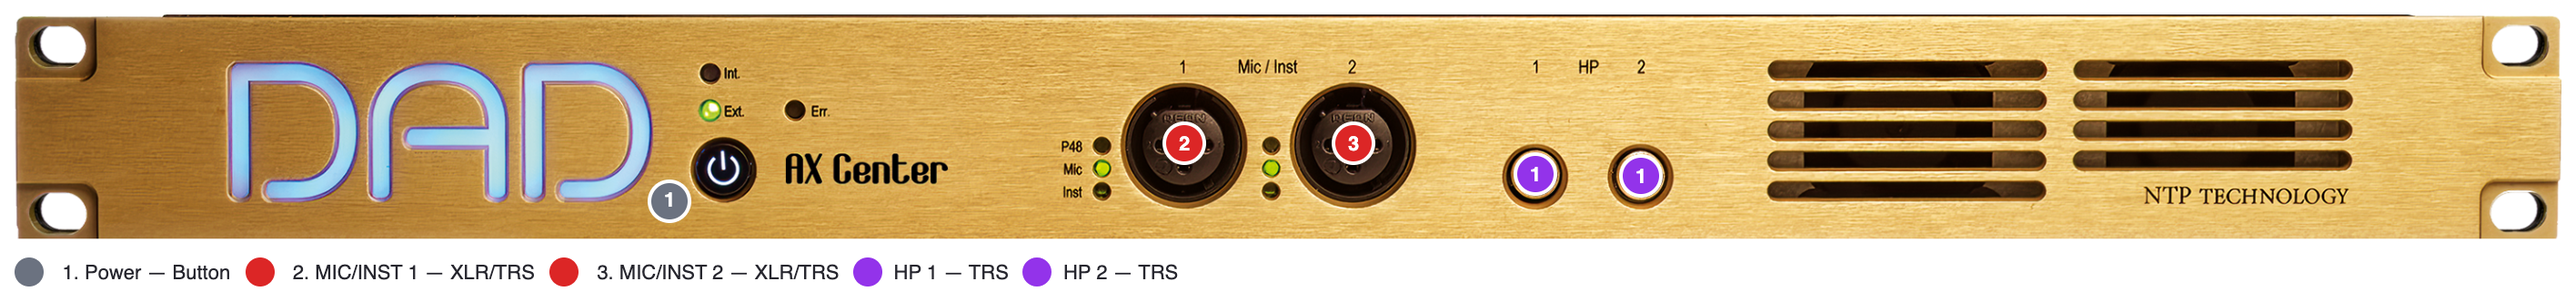
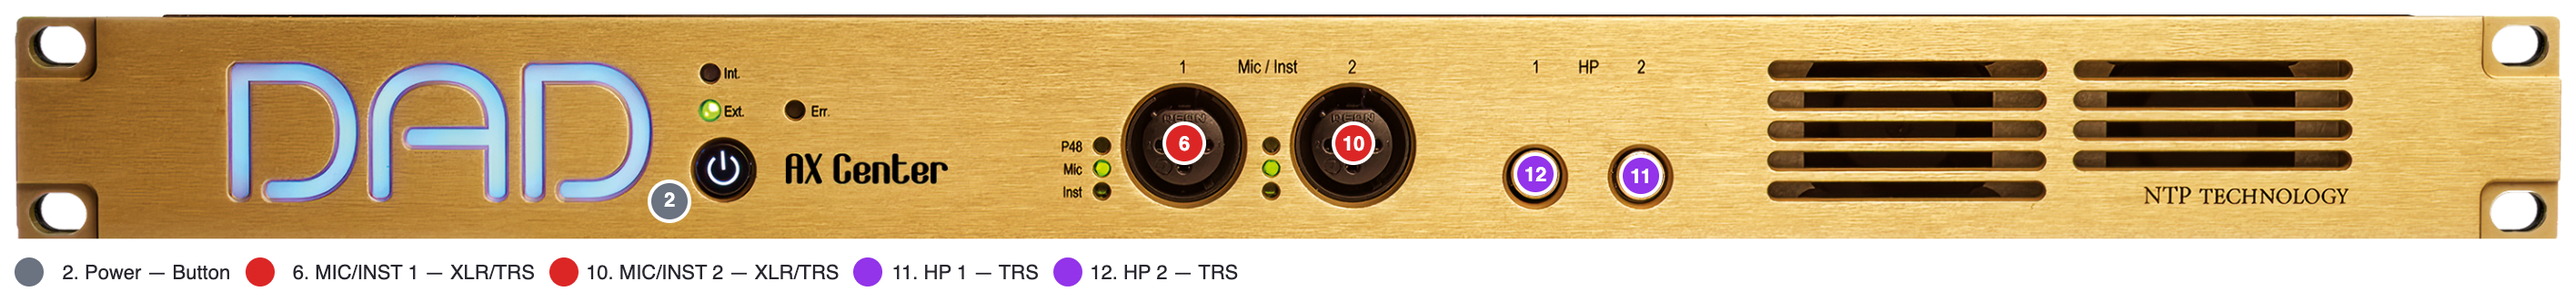
ch02: add Dot column and sequential ref numbering for all 6 devices
- All ch02 tables now include a Dot column with colour names matching
  callout dot colours in the panel images (Grey/Red/Cyan/Teal/Blue/
  Amber/Orange/Yellow/Violet/Purple/Slate/Dark/Green/—)
- All rows renumbered sequentially including previously un-numbered
  items (status LEDs, unlabelled indicators)
- AX Center front: refs 1–12 (added Int/Ext/Err/P48/Mic/Inst rows)
- AX 64 front: refs 1–5; rear: refs 1–23 with Dot column
- Core 256 front: refs 1–5 (front has no callout circles, all Dot=—)
- MOM: refs 1–14 (added Status LEDs 1–4 and Stat. rows)
- Penta 720/721s front: refs 1–3 for Ready/Error/PSU OK (Grey)
- Penta 720/721s rear: Dot column added (no ref changes needed)
- Regenerated panel-ax-center-front.png and panel-mom.png with
  updated callout numbers (11/12 for HP1/HP2 on AX Center;
  10–14 for TB/Ref/Cut/Dim/Level on MOM)

Changed region(s): [[0.3418, 0.8434, 0.4972, 0.9639], [0.5904, 0.5422, 0.6525, 0.6024], [0.4972, 0.4518, 0.5282, 0.4819]]

diff --git a/dadman-docs/docs/hardware/ax-center/ch02-panel-description.md b/dadman-docs/docs/hardware/ax-center/ch02-panel-description.md
@@ -16,20 +16,20 @@ sidebar_position: 3
 ![AX Center front panel](/img/panel-ax-center-front.png)
 *Figure 2.1 — AX Center front panel. Numbered callouts correspond to the table below.*
 
-| Ref | Label | Type | Function |
-|-----|-------|------|----------|
-| — | **DAD** | Illuminated logo | Blue illumination; indicates power-on |
-| 1 | **Power** | Illuminated push-button | Initiates controlled power-on/shutdown sequence. Hold for 5 s to force power off. |
-| — | **Int.** | LED indicator | Lit when the unit is locked to its own internal clock reference |
-| — | **Ext.** | LED indicator (green) | Lit when the unit is locked to an external clock source (word clock, MADI, ADAT, or Dante) |
-| — | **Err.** | LED indicator (red) | Lit when a clock error, sync loss, or internal fault is detected. See [Section 2.3](#23-led-state-reference). |
-| 2 | **Mic/Inst 1** | Combo XLR/TRS (locking) | Mic/line/instrument input, channel 1. Accepts XLR (balanced mic/line) or 6.35 mm TRS/TS (line/instrument). |
-| — | **P48** | LED indicator | Lit when phantom power (+48 V) is active on this input channel |
-| — | **Mic** | LED indicator | Lit when the input is configured as a microphone input |
-| — | **Inst** | LED indicator | Lit when the input is configured as a high-impedance instrument input |
-| 3 | **Mic/Inst 2** | Combo XLR/TRS (locking) | Mic/line/instrument input, channel 2. Same specification as channel 1. |
-| 4 | **HP 1** | 6.35 mm TRS jack | Headphone output 1. Level controlled via DADman or MOM. |
-| 5 | **HP 2** | 6.35 mm TRS jack | Headphone output 2. Level controlled via DADman or MOM. |
+| Ref | Label | Type | Function | Dot |
+|-----|-------|------|----------|-----|
+| 1 | **DAD** | Illuminated logo | Blue illumination; indicates power-on | — |
+| 2 | **Power** | Illuminated push-button | Initiates controlled power-on/shutdown sequence. Hold for 5 s to force power off. | Grey |
+| 3 | **Int.** | LED indicator | Lit when the unit is locked to its own internal clock reference | — |
+| 4 | **Ext.** | LED indicator (green) | Lit when the unit is locked to an external clock source (word clock, MADI, ADAT, or Dante) | — |
+| 5 | **Err.** | LED indicator (red) | Lit when a clock error, sync loss, or internal fault is detected. See [Section 2.3](#23-led-state-reference). | — |
+| 6 | **Mic/Inst 1** | Combo XLR/TRS (locking) | Mic/line/instrument input, channel 1. Accepts XLR (balanced mic/line) or 6.35 mm TRS/TS (line/instrument). | Red |
+| 7 | **P48** | LED indicator | Lit when phantom power (+48 V) is active on this input channel | — |
+| 8 | **Mic** | LED indicator | Lit when the input is configured as a microphone input | — |
+| 9 | **Inst** | LED indicator | Lit when the input is configured as a high-impedance instrument input | — |
+| 10 | **Mic/Inst 2** | Combo XLR/TRS (locking) | Mic/line/instrument input, channel 2. Same specification as channel 1. | Red |
+| 11 | **HP 1** | 6.35 mm TRS jack | Headphone output 1. Level controlled via DADman or MOM. | Purple |
+| 12 | **HP 2** | 6.35 mm TRS jack | Headphone output 2. Level controlled via DADman or MOM. | Purple |
 
 ---
 
@@ -38,22 +38,22 @@ sidebar_position: 3
 ![AX Center rear panel](/img/panel-ax-center-rear.png)
 *Figure 2.2 — AX Center rear panel. Numbered callouts correspond to the table below.*
 
-| Ref | Label | Connector | Function |
-|-----|-------|-----------|----------|
-| 1 | **Power** | IEC C14 inlet | Mains power input. 100–240 V AC, 50/60 Hz, auto-ranging internal PSU. Connect a standard IEC C13 power cable. |
-| 2 | **EXPANSION** (upper pair) | 2× SFP bay | DADLink / MADI optical expansion. Accepts SFP modules for connection to other DAD units via active optical fibre (DADLink cable) or for optical MADI I/O. |
-| 3 | **NET 1 / NET 2** | 2× RJ45 + SFP bay | Ethernet control network (NET 1, NET 2: 100/1000BASE-T). The SFP bay below NET 1/NET 2 accepts an SFP module for optional fibre network connection. Connect NET 1 or NET 2 to your DADman control network — only one port is required for normal operation. |
-| 4 | **THUNDERBOLT 1** (upper) | USB-C (Thunderbolt 3) | Primary Thunderbolt 3 connection to the computer. Connect this port to the computer's Thunderbolt 3 or USB4 port using a 20 Gbps-rated cable. Carries up to 256 bi-directional audio channels at standard sample rates. |
-| 5 | **THUNDERBOLT 2** (lower) | USB-C (Thunderbolt 3) | Thunderbolt 3 daisy-chain / passthrough. Connect to the next Thunderbolt device in the chain. |
-| 6 | **WC/VBB IN** | BNC, 75 Ω | Word clock or Video Black Burst input. Accepts word clock (1×, 256×, or video sync formats). Engage the 75 Ω termination on the last device in a word clock chain. |
-| 7 | **WC OUT** | BNC, 75 Ω | Word clock output. Outputs the unit's current sync reference as a word clock signal. |
-| 8 | **MADI IN** | BNC, 75 Ω | MADI input (coaxial). Accepts AES10 MADI at 56- or 64-channel frame format. At 96 kHz, maximum channel count is 32. |
-| 9 | **MADI OUT** | BNC, 75 Ω | MADI output (coaxial). Transmits MADI at the configured frame format and sample rate. |
-| 10 | **ADAT OUT 1 / 2** | 2× TOSLINK (optical) | ADAT Lightpipe outputs. Up to 8 channels per port at 44.1/48 kHz; 4 channels per port at 88.2/96 kHz (S/MUX). |
-| 11 | **ADAT IN 1 / 2** | 2× TOSLINK (optical) | ADAT Lightpipe inputs. Same channel count as ADAT outputs. |
-| 12 | **MONITOR 1** | 2× TRS 6.35 mm (L/R) | Balanced stereo monitor output 1. Level controlled via DADman or MOM. |
-| 13 | **MONITOR 2** | 2× TRS 6.35 mm (L/R) | Balanced stereo monitor output 2. Level controlled via DADman or MOM. |
-| 14 | **SLOT 1 / SLOT 2** | 2× expansion slot (DB25) | Analogue I/O expansion slots. Each slot accepts a DAD expansion card providing 8 channels of A/D, D/A, or digital I/O. Card type and channel assignment is configured in DADman. |
+| Ref | Label | Connector | Function | Dot |
+|-----|-------|-----------|----------|-----|
+| 1 | **Power** | IEC C14 inlet | Mains power input. 100–240 V AC, 50/60 Hz, auto-ranging internal PSU. Connect a standard IEC C13 power cable. | Dark |
+| 2 | **EXPANSION** (upper pair) | 2× SFP bay | DADLink / MADI optical expansion. Accepts SFP modules for connection to other DAD units via active optical fibre (DADLink cable) or for optical MADI I/O. | Cyan |
+| 3 | **NET 1 / NET 2** | 2× RJ45 + SFP bay | Ethernet control network (NET 1, NET 2: 100/1000BASE-T). The SFP bay below NET 1/NET 2 accepts an SFP module for optional fibre network connection. Connect NET 1 or NET 2 to your DADman control network — only one port is required for normal operation. | Slate |
+| 4 | **THUNDERBOLT 1** (upper) | USB-C (Thunderbolt 3) | Primary Thunderbolt 3 connection to the computer. Connect this port to the computer's Thunderbolt 3 or USB4 port using a 20 Gbps-rated cable. Carries up to 256 bi-directional audio channels at standard sample rates. | Amber |
+| 5 | **THUNDERBOLT 2** (lower) | USB-C (Thunderbolt 3) | Thunderbolt 3 daisy-chain / passthrough. Connect to the next Thunderbolt device in the chain. | Amber |
+| 6 | **WC/VBB IN** | BNC, 75 Ω | Word clock or Video Black Burst input. Accepts word clock (1×, 256×, or video sync formats). Engage the 75 Ω termination on the last device in a word clock chain. | Violet |
+| 7 | **WC OUT** | BNC, 75 Ω | Word clock output. Outputs the unit's current sync reference as a word clock signal. | Violet |
+| 8 | **MADI IN** | BNC, 75 Ω | MADI input (coaxial). Accepts AES10 MADI at 56- or 64-channel frame format. At 96 kHz, maximum channel count is 32. | Blue |
+| 9 | **MADI OUT** | BNC, 75 Ω | MADI output (coaxial). Transmits MADI at the configured frame format and sample rate. | Blue |
+| 10 | **ADAT OUT 1 / 2** | 2× TOSLINK (optical) | ADAT Lightpipe outputs. Up to 8 channels per port at 44.1/48 kHz; 4 channels per port at 88.2/96 kHz (S/MUX). | Teal |
+| 11 | **ADAT IN 1 / 2** | 2× TOSLINK (optical) | ADAT Lightpipe inputs. Same channel count as ADAT outputs. | Teal |
+| 12 | **MONITOR 1** | 2× TRS 6.35 mm (L/R) | Balanced stereo monitor output 1. Level controlled via DADman or MOM. | Red |
+| 13 | **MONITOR 2** | 2× TRS 6.35 mm (L/R) | Balanced stereo monitor output 2. Level controlled via DADman or MOM. | Red |
+| 14 | **SLOT 1 / SLOT 2** | 2× expansion slot (DB25) | Analogue I/O expansion slots. Each slot accepts a DAD expansion card providing 8 channels of A/D, D/A, or digital I/O. Card type and channel assignment is configured in DADman. | Yellow |
 
 > **NOTICE — Thunderbolt cable requirement:** The Thunderbolt 3 connection requires a cable rated to 20 Gbps or higher. Standard USB-C cables are not rated for Thunderbolt 3 speeds and will not work reliably. Use the cable supplied with the unit or a certified Thunderbolt 3 / Thunderbolt 4 cable.
 

diff --git a/dadman-docs/docs/hardware/ax64/ch02-panel-description.md b/dadman-docs/docs/hardware/ax64/ch02-panel-description.md
@@ -14,17 +14,17 @@ sidebar_position: 3
 ## 2.1 Front Panel
 
 ![AX 64 front panel](/img/panel-ax64-front.png)
-*Figure 2.1 — AX 64 front panel. Numbered callouts correspond to the table below.*
+*Figure 2.1 — AX 64 front panel. The legend strip below the panel identifies the Power button; clock reference LEDs are unlabelled.*
 
 > **NOTICE:** The AX 64 front panel provides status indicators only. All audio I/O connections are made on the rear panel (Figure 2.2).
 
-| Ref | Label | Type | Function |
-|-----|-------|------|----------|
-| — | **DAD** | Illuminated logo | Blue illumination; indicates power-on |
-| 1 | **Power** | Illuminated push-button | Initiates controlled power-on/shutdown sequence |
-| — | **Int.** | LED indicator | Lit when locked to internal clock reference |
-| — | **Ext.** | LED indicator (green) | Lit when locked to external clock source |
-| — | **Err.** | LED indicator (red) | Lit on clock error or internal fault. See [Section 2.3](#23-led-state-reference). |
+| Ref | Label | Type | Function | Dot |
+|-----|-------|------|----------|-----|
+| 1 | **DAD** | Illuminated logo | Blue illumination; indicates power-on | — |
+| 2 | **Power** | Illuminated push-button | Initiates controlled power-on/shutdown sequence | Grey |
+| 3 | **Int.** | LED indicator | Lit when locked to internal clock reference | — |
+| 4 | **Ext.** | LED indicator (green) | Lit when locked to external clock source | — |
+| 5 | **Err.** | LED indicator (red) | Lit on clock error or internal fault. See [Section 2.3](#23-led-state-reference). | — |
 
 ---
 
@@ -33,21 +33,21 @@ sidebar_position: 3
 ![AX 64 rear panel](/img/panel-ax64-rear.png)
 *Figure 2.2 — AX 64 rear panel. Numbered callouts correspond to the table below.*
 
-| Ref | Label | Connector | Function |
-|-----|-------|-----------|----------|
-| 1 | **Power** | IEC C14 inlet | Mains power input. 100–240 V AC, 50/60 Hz, auto-ranging. |
-| 1a | *(Optional)* | IEC C14 inlet | Redundant power supply inlet (factory-fitted option). |
-| 2, 3 | **EXPANSION** | 2× SFP bay | DADLink / MADI optical expansion. Accepts SFP modules for DADLink or optical MADI I/O. |
-| 4, 5 | **NET 1 / NET 2** | 2× RJ45 + SFP bay | Ethernet control network. Connect NET 1 or NET 2 to the DADman control network. |
-| 6 | **THUNDERBOLT 1** (upper) | USB-C (Thunderbolt 3) | Primary Thunderbolt 3 connection to the computer. |
-| 7 | **THUNDERBOLT 2** (lower) | USB-C (Thunderbolt 3) | Thunderbolt 3 daisy-chain / passthrough. |
-| 8 | **WC IN** | BNC, 75 Ω | Word clock input. |
-| 9 | **WC OUT** | BNC, 75 Ω | Word clock output. |
-| 10 | **MADI IN** | BNC, 75 Ω | MADI coaxial input. AES10 compliant. |
-| 11 | **MADI OUT** | BNC, 75 Ω | MADI coaxial output. |
-| 12, 14 | **ADAT OUT 1 / 2** | 2× TOSLINK (optical) | ADAT Lightpipe outputs. Up to 8 ch at 44.1/48 kHz; 4 ch at 88.2/96 kHz (S/MUX). |
-| 13, 15 | **ADAT IN 1 / 2** | 2× TOSLINK (optical) | ADAT Lightpipe inputs. |
-| 16–23 | **Slot 1 – Slot 8** | Up to 8× DB25 | Analogue expansion card slots. Each slot accepts one 8-channel DAD expansion card (A/D, D/A, or digital I/O). Slot numbering runs right to left as viewed from the rear (Slot 1 is rightmost). Card type and routing is configured in DADman. |
+| Ref | Label | Connector | Function | Dot |
+|-----|-------|-----------|----------|-----|
+| 1 | **Power** | IEC C14 inlet | Mains power input. 100–240 V AC, 50/60 Hz, auto-ranging. | Dark |
+| 1a | *(Optional)* | IEC C14 inlet | Redundant power supply inlet (factory-fitted option). | Cyan |
+| 2, 3 | **EXPANSION** | 2× SFP bay | DADLink / MADI optical expansion. Accepts SFP modules for DADLink or optical MADI I/O. | Cyan |
+| 4, 5 | **NET 1 / NET 2** | 2× RJ45 + SFP bay | Ethernet control network. Connect NET 1 or NET 2 to the DADman control network. | Slate |
+| 6 | **THUNDERBOLT 1** (upper) | USB-C (Thunderbolt 3) | Primary Thunderbolt 3 connection to the computer. | Amber |
+| 7 | **THUNDERBOLT 2** (lower) | USB-C (Thunderbolt 3) | Thunderbolt 3 daisy-chain / passthrough. | Amber |
+| 8 | **WC IN** | BNC, 75 Ω | Word clock input. | Violet |
+| 9 | **WC OUT** | BNC, 75 Ω | Word clock output. | Violet |
+| 10 | **MADI IN** | BNC, 75 Ω | MADI coaxial input. AES10 compliant. | Blue |
+| 11 | **MADI OUT** | BNC, 75 Ω | MADI coaxial output. | Blue |
+| 12, 14 | **ADAT OUT 1 / 2** | 2× TOSLINK (optical) | ADAT Lightpipe outputs. Up to 8 ch at 44.1/48 kHz; 4 ch at 88.2/96 kHz (S/MUX). | Teal |
+| 13, 15 | **ADAT IN 1 / 2** | 2× TOSLINK (optical) | ADAT Lightpipe inputs. | Teal |
+| 16–23 | **Slot 1 – Slot 8** | Up to 8× DB25 | Analogue expansion card slots. Each slot accepts one 8-channel DAD expansion card (A/D, D/A, or digital I/O). Slot numbering runs right to left as viewed from the rear (Slot 1 is rightmost). Card type and routing is configured in DADman. | Yellow |
 
 > **NOTICE — Expansion card slots:** Unpopulated slots are covered by a blanking plate. Do not remove blanking plates — they are required for correct airflow. Expansion cards must only be installed or removed with the unit powered off.
 

diff --git a/dadman-docs/docs/hardware/mom/ch02-panel-description.md b/dadman-docs/docs/hardware/mom/ch02-panel-description.md
@@ -16,22 +16,22 @@ sidebar_position: 3
 ![MOM control face](/img/panel-mom.png)
 *Figure 2.1 — MOM control face. Numbered callouts correspond to the reference table below.*
 
-| Ref | Label | Type | Function |
-|-----|-------|------|----------|
-| 1 | **Spkr. 1** | Illuminated push-button | Selects speaker output set 1 (e.g., main monitors). Corresponds to a speaker output set configured in the active Monitor Profile in DADman. |
-| 2 | **Spkr. 2** | Illuminated push-button | Selects speaker output set 2 (e.g., near-field monitors). |
-| 3 | **Spkr. 3** | Illuminated push-button | Selects speaker output set 3 (e.g., translation speaker or Atmos bed). |
-| 4 | **Src. A** | Illuminated push-button | Selects monitoring source A as defined in the active Monitor Profile. |
-| 5 | **Src. B** | Illuminated push-button | Selects monitoring source B. |
-| 6 | **Src. C** | Illuminated push-button | Selects monitoring source C. |
-| 7 | **Layer** | Illuminated push-button | Switches the MOM between control layers. Pressing Layer cycles through configured layers, reassigning Spkr. and Src. buttons. |
-| — | **Status LEDs 1–4** | LED indicators | Indicate the status of the four active monitoring layers or presets. Illuminated when the corresponding layer is active. |
-| — | **Stat.** | LED indicator (green) | MOM is connected to the AX Center / AX 64 and communicating correctly. Flashes during initialisation. Off when disconnected. |
-| 8 | **TB** | Push-button | Talkback. Routes the talkback microphone (configured in DADman) into the talent feeds while held. |
-| 9 | **Ref** | Push-button | Reference level. Switches the monitor output to the calibrated reference level defined in the active Monitor Profile. Press again to return to the previous level. |
-| 10 | **Cut** | Illuminated push-button | Cuts (mutes) the monitor output. Illuminates red when active. |
-| 11 | **Dim** | Illuminated push-button | Attenuates the monitor output by the Dim amount configured in the active Monitor Profile (typically −20 dB). Illuminates amber when active. |
-| 12 | **Level** | Rotary encoder with LED ring | Master monitor level control. Turn to adjust the output level. The LED ring indicates the current level position relative to the reference level. Range: approximately −40 dB to +6 dB relative to reference. |
+| Ref | Label | Type | Function | Dot |
+|-----|-------|------|----------|-----|
+| 1 | **Spkr. 1** | Illuminated push-button | Selects speaker output set 1 (e.g., main monitors). Corresponds to a speaker output set configured in the active Monitor Profile in DADman. | Cyan |
+| 2 | **Spkr. 2** | Illuminated push-button | Selects speaker output set 2 (e.g., near-field monitors). | Teal |
+| 3 | **Spkr. 3** | Illuminated push-button | Selects speaker output set 3 (e.g., translation speaker or Atmos bed). | Blue |
+| 4 | **Src. A** | Illuminated push-button | Selects monitoring source A as defined in the active Monitor Profile. | Amber |
+| 5 | **Src. B** | Illuminated push-button | Selects monitoring source B. | Orange |
+| 6 | **Src. C** | Illuminated push-button | Selects monitoring source C. | Yellow |
+| 7 | **Layer** | Illuminated push-button | Switches the MOM between control layers. Pressing Layer cycles through configured layers, reassigning Spkr. and Src. buttons. | Violet |
+| 8 | **Status LEDs 1–4** | LED indicators | Indicate the status of the four active monitoring layers or presets. Illuminated when the corresponding layer is active. | — |
+| 9 | **Stat.** | LED indicator (green) | MOM is connected to the AX Center / AX 64 and communicating correctly. Flashes during initialisation. Off when disconnected. | — |
+| 10 | **TB** | Push-button | Talkback. Routes the talkback microphone (configured in DADman) into the talent feeds while held. | Red |
+| 11 | **Ref** | Push-button | Reference level. Switches the monitor output to the calibrated reference level defined in the active Monitor Profile. Press again to return to the previous level. | Green |
+| 12 | **Cut** | Illuminated push-button | Cuts (mutes) the monitor output. Illuminates red when active. | Purple |
+| 13 | **Dim** | Illuminated push-button | Attenuates the monitor output by the Dim amount configured in the active Monitor Profile (typically −20 dB). Illuminates amber when active. | Slate |
+| 14 | **Level** | Rotary encoder with LED ring | Master monitor level control. Turn to adjust the output level. The LED ring indicates the current level position relative to the reference level. Range: approximately −40 dB to +6 dB relative to reference. | Dark |
 
 > **NOTICE — MOM and Monitor Profiles:** The functions of the Spkr., Src., and Layer buttons are determined by the Monitor Profile loaded in DADman. Configure Monitor Profiles before using the MOM in a session. See [Ch. 8 — Advanced Features, Section 8.1 — Monitor Profiles].
 

diff --git a/dadman-docs/docs/hardware/core-256/ch02-panel-description.md b/dadman-docs/docs/hardware/core-256/ch02-panel-description.md
@@ -14,17 +14,17 @@ sidebar_position: 3
 ## 2.1 Front Panel
 
 ![Core 256 front panel](/img/panel-core256-front.png)
-*Figure 2.1 — Core 256 front panel. Numbered callouts correspond to the table below.*
+*Figure 2.1 — Core 256 front panel.*
 
 > **NOTICE:** The Core 256 front panel provides status indicators only. There are no audio I/O connectors on the front panel.
 
-| Ref | Label | Type | Function |
-|-----|-------|------|----------|
-| — | **DAD** | Illuminated logo | Blue illumination; indicates power-on |
-| 1 | **Power** | Illuminated push-button | Initiates controlled power-on/shutdown sequence |
-| — | **Int.** | LED indicator | Lit when locked to internal clock reference |
-| — | **Ext.** | LED indicator (green) | Lit when locked to external clock source |
-| — | **Err.** | LED indicator (red) | Lit on clock error or internal fault. See [Section 2.3](#23-led-state-reference). |
+| Ref | Label | Type | Function | Dot |
+|-----|-------|------|----------|-----|
+| 1 | **DAD** | Illuminated logo | Blue illumination; indicates power-on | — |
+| 2 | **Power** | Illuminated push-button | Initiates controlled power-on/shutdown sequence | — |
+| 3 | **Int.** | LED indicator | Lit when locked to internal clock reference | — |
+| 4 | **Ext.** | LED indicator (green) | Lit when locked to external clock source | — |
+| 5 | **Err.** | LED indicator (red) | Lit on clock error or internal fault. See [Section 2.3](#23-led-state-reference). | — |
 
 ---
 
@@ -43,20 +43,20 @@ The Core 256 rear panel carries the same connector set as the AX Center with the
 
 All other rear-panel connectors (EXPANSION / SFP bays, NET 1/NET 2, THUNDERBOLT 1/2, WC/VBB IN, WC OUT, MADI IN, MADI OUT, ADAT OUT 1/2, ADAT IN 1/2) are identical to the AX Center. Refer to [Ch. 4 — AX Center Rear Panel](../ax-center/ch04-connections) for function and specification of those connectors.
 
-| Ref | Label | Connector | Function |
-|-----|-------|-----------|----------|
-| 1 | **Power** | 12 V DC barrel | DC power input. Connect the supplied external 12 V power supply. Do not substitute with a third-party supply. |
-| 2 | **EXPANSION** | 2× SFP bay | DADLink / MADI optical expansion. Identical to AX Center. |
-| 3 | **NET 1 / NET 2** | 2× RJ45 + SFP bay | Ethernet control network (100/1000BASE-T) + optional SFP fibre. Identical to AX Center. |
-| 4 | **THUNDERBOLT 1** (upper) | USB-C (Thunderbolt 3) | Primary Thunderbolt 3 connection to the computer. |
-| 5 | **THUNDERBOLT 2** (lower) | USB-C (Thunderbolt 3) | Thunderbolt 3 daisy-chain / passthrough. |
-| 6 | **WC/VBB IN** | BNC, 75 Ω | Word clock or Video Black Burst input. |
-| 7 | **WC OUT** | BNC, 75 Ω | Word clock output. |
-| 8 | **MADI IN** | BNC, 75 Ω | MADI input (coaxial). AES10 compliant. |
-| 9 | **MADI OUT** | BNC, 75 Ω | MADI output (coaxial). |
-| 10 | **ADAT OUT 1 / 2** | 2× TOSLINK (optical) | ADAT Lightpipe outputs. Up to 8 ch at 44.1/48 kHz; 4 ch at 88.2/96 kHz (S/MUX). |
-| 11 | **ADAT IN 1 / 2** | 2× TOSLINK (optical) | ADAT Lightpipe inputs. Same channel count as ADAT outputs. |
-| 12 | **SLOT 1 / SLOT 2** | 2× expansion slot (DB25) | Analogue I/O expansion slots. Each accepts one 8-channel DAD expansion card. |
+| Ref | Label | Connector | Function | Dot |
+|-----|-------|-----------|----------|-----|
+| 1 | **Power** | 12 V DC barrel | DC power input. Connect the supplied external 12 V power supply. Do not substitute with a third-party supply. | Dark |
+| 2 | **EXPANSION** | 2× SFP bay | DADLink / MADI optical expansion. Identical to AX Center. | Cyan |
+| 3 | **NET 1 / NET 2** | 2× RJ45 + SFP bay | Ethernet control network (100/1000BASE-T) + optional SFP fibre. Identical to AX Center. | Slate |
+| 4 | **THUNDERBOLT 1** (upper) | USB-C (Thunderbolt 3) | Primary Thunderbolt 3 connection to the computer. | Amber |
+| 5 | **THUNDERBOLT 2** (lower) | USB-C (Thunderbolt 3) | Thunderbolt 3 daisy-chain / passthrough. | Amber |
+| 6 | **WC/VBB IN** | BNC, 75 Ω | Word clock or Video Black Burst input. | Violet |
+| 7 | **WC OUT** | BNC, 75 Ω | Word clock output. | Violet |
+| 8 | **MADI IN** | BNC, 75 Ω | MADI input (coaxial). AES10 compliant. | Blue |
+| 9 | **MADI OUT** | BNC, 75 Ω | MADI output (coaxial). | Blue |
+| 10 | **ADAT OUT 1 / 2** | 2× TOSLINK (optical) | ADAT Lightpipe outputs. Up to 8 ch at 44.1/48 kHz; 4 ch at 88.2/96 kHz (S/MUX). | Teal |
+| 11 | **ADAT IN 1 / 2** | 2× TOSLINK (optical) | ADAT Lightpipe inputs. Same channel count as ADAT outputs. | Teal |
+| 12 | **SLOT 1 / SLOT 2** | 2× expansion slot (DB25) | Analogue I/O expansion slots. Each accepts one 8-channel DAD expansion card. | — |
 
 ---
 

diff --git a/dadman-docs/docs/hardware/penta-720/ch02-panel-description.md b/dadman-docs/docs/hardware/penta-720/ch02-panel-description.md
@@ -16,11 +16,11 @@ sidebar_position: 3
 ![Penta 720 front panel](/img/panel-penta720.png)
 *Figure 2.1 — Penta 720 front panel. Numbered callouts correspond to the reference table below.*
 
-| Ref | Label | Type | Function |
-|-----|-------|------|----------|
-| — | **Ready** | LED indicator (green) | Unit has completed boot sequence and is ready for operation |
-| — | **Error** | LED indicator (red) | An internal fault or configuration error has been detected |
-| — | **PSU OK** | LED indicator (green) | Primary power supply is operating correctly. On units with redundant PSU, a second PSU OK indicator confirms backup supply status. |
+| Ref | Label | Type | Function | Dot |
+|-----|-------|------|----------|-----|
+| 1 | **Ready** | LED indicator (green) | Unit has completed boot sequence and is ready for operation | Grey |
+| 2 | **Error** | LED indicator (red) | An internal fault or configuration error has been detected | Grey |
+| 3 | **PSU OK** | LED indicator (green) | Primary power supply is operating correctly. On units with redundant PSU, a second PSU OK indicator confirms backup supply status. | Grey |
 
 ---
 
@@ -28,21 +28,21 @@ sidebar_position: 3
 
 > **NOTICE:** The Penta 720 rear panel layout varies depending on the expansion cards fitted. The connector complement shown below reflects a typical configuration. Verify the actual card layout in your unit before making connections.
 
-| Ref | Label | Connector | Function |
-|-----|-------|-----------|----------|
-| 1 | **Power (primary)** | IEC C14 inlet | Mains power input. 100–240 V AC, 50/60 Hz, 0.45–0.20 A. Fuse: T1AH/250VAC. |
-| 2 | **Power (backup)** | IEC C14 inlet | Redundant mains power input (where fitted). Provides hot-swap PSU redundancy. |
-| 3 | **AES/EBU I/O 1–4** | DB25 (Tascam pinout) | AES/EBU digital audio I/O, channels 1–4 (4 stereo pairs = 8 channels). |
-| 4 | **AES/EBU I/O 5–8** | DB25 (Tascam pinout) | AES/EBU digital audio I/O, channels 5–8 (4 stereo pairs = 8 channels). |
-| 5 | **MADI IN** | BNC, 75 Ω | MADI coaxial input. AES10 compliant. |
-| 6 | **MADI OUT** | BNC, 75 Ω | MADI coaxial output. |
-| 7 | **Optical I/O** | TOSLINK (optical) | Optical MADI or ADAT I/O (card-dependent). |
-| 8 | **WC/VBB IN** | BNC, 75 Ω | Word clock or Video Black Burst input. |
-| 9 | **WC OUT** | BNC, 75 Ω | Word clock output. |
-| 10 | **AES11 IN** | XLR (female) | AES11 digital audio reference signal input. Used to synchronise the unit to an AES11 reference source. |
-| 11 | **NET 1** | RJ45 (1000BASE-T) | Ethernet control and/or Dante audio network, port 1. |
-| 12 | **NET 2** | RJ45 (1000BASE-T) | Ethernet control and/or Dante audio network, port 2. |
-| 13 | **SLOT 1** *(typical: Dante/AES67 I/O)* | 2× SFP | Expansion card slot 1. When fitted with a Dante/AES67 I/O card: two SFP ports for optical or copper Dante network connections. Slot content varies by configuration. |
+| Ref | Label | Connector | Function | Dot |
+|-----|-------|-----------|----------|-----|
+| 1 | **Power (primary)** | IEC C14 inlet | Mains power input. 100–240 V AC, 50/60 Hz, 0.45–0.20 A. Fuse: T1AH/250VAC. | Dark |
+| 2 | **Power (backup)** | IEC C14 inlet | Redundant mains power input (where fitted). Provides hot-swap PSU redundancy. | Dark |
+| 3 | **AES/EBU I/O 1–4** | DB25 (Tascam pinout) | AES/EBU digital audio I/O, channels 1–4 (4 stereo pairs = 8 channels). | Orange |
+| 4 | **AES/EBU I/O 5–8** | DB25 (Tascam pinout) | AES/EBU digital audio I/O, channels 5–8 (4 stereo pairs = 8 channels). | Orange |
+| 5 | **MADI IN** | BNC, 75 Ω | MADI coaxial input. AES10 compliant. | Blue |
+| 6 | **MADI OUT** | BNC, 75 Ω | MADI coaxial output. | Blue |
+| 7 | **Optical I/O** | TOSLINK (optical) | Optical MADI or ADAT I/O (card-dependent). | Cyan |
+| 8 | **WC/VBB IN** | BNC, 75 Ω | Word clock or Video Black Burst input. | Violet |
+| 9 | **WC OUT** | BNC, 75 Ω | Word clock output. | Violet |
+| 10 | **AES11 IN** | XLR (female) | AES11 digital audio reference signal input. Used to synchronise the unit to an AES11 reference source. | Green |
+| 11 | **NET 1** | RJ45 (1000BASE-T) | Ethernet control and/or Dante audio network, port 1. | Slate |
+| 12 | **NET 2** | RJ45 (1000BASE-T) | Ethernet control and/or Dante audio network, port 2. | Slate |
+| 13 | **SLOT 1** *(typical: Dante/AES67 I/O)* | 2× SFP | Expansion card slot 1. When fitted with a Dante/AES67 I/O card: two SFP ports for optical or copper Dante network connections. Slot content varies by configuration. | Cyan |
 
 ---
 

diff --git a/dadman-docs/docs/hardware/penta-721s/ch02-panel-description.md b/dadman-docs/docs/hardware/penta-721s/ch02-panel-description.md
@@ -16,11 +16,11 @@ sidebar_position: 3
 ![Penta 721s front panel](/img/panel-penta721s-front.png)
 *Figure 2.1 — Penta 721s front panel. Numbered callouts correspond to the reference table below.*
 
-| Ref | Label | Type | Function |
-|-----|-------|------|----------|
-| — | **Ready** | LED indicator (green) | Unit has completed boot sequence and is ready for operation |
-| — | **Error** | LED indicator (red) | An internal fault or configuration error has been detected |
-| — | **PSU OK** | LED indicator (green) | Primary power supply is operating correctly. On units with redundant PSU, a second PSU OK indicator confirms backup supply status. |
+| Ref | Label | Type | Function | Dot |
+|-----|-------|------|----------|-----|
+| 1 | **Ready** | LED indicator (green) | Unit has completed boot sequence and is ready for operation | Grey |
+| 2 | **Error** | LED indicator (red) | An internal fault or configuration error has been detected | Grey |
+| 3 | **PSU OK** | LED indicator (green) | Primary power supply is operating correctly. On units with redundant PSU, a second PSU OK indicator confirms backup supply status. | Grey |
 
 ---
 
@@ -31,21 +31,21 @@ sidebar_position: 3
 
 > **NOTICE:** The Penta 721s rear panel layout varies depending on the expansion cards fitted. The connector complement shown below reflects a typical configuration. Verify the actual card layout in your unit before making connections.
 
-| Ref | Label | Connector | Function |
-|-----|-------|-----------|----------|
-| 1 | **Power (primary)** | IEC C14 inlet | Mains power input. 100–240 V AC, 50/60 Hz, 0.45–0.20 A. Fuse: T1AH/250VAC. |
-| 2 | **Power (backup)** | IEC C14 inlet | Redundant mains power input (where fitted). Provides hot-swap PSU redundancy. |
-| 3 | **AES/EBU I/O 1–4** | DB25 (Tascam pinout) | AES/EBU digital audio I/O, channels 1–4 (4 stereo pairs = 8 channels). |
-| 4 | **AES/EBU I/O 5–8** | DB25 (Tascam pinout) | AES/EBU digital audio I/O, channels 5–8 (4 stereo pairs = 8 channels). |
-| 5 | **MADI IN** | BNC, 75 Ω | MADI coaxial input. AES10 compliant. |
-| 6 | **MADI OUT** | BNC, 75 Ω | MADI coaxial output. |
-| 7 | **Optical I/O** | TOSLINK (optical) | Optical MADI or ADAT I/O (card-dependent). |
-| 8 | **WC/VBB IN** | BNC, 75 Ω | Word clock or Video Black Burst input. |
-| 9 | **WC OUT** | BNC, 75 Ω | Word clock output. |
-| 10 | **AES11 IN** | XLR (female) | AES11 digital audio reference signal input. |
-| 11 | **NET 1** | RJ45 (1000BASE-T) | Ethernet control and/or Dante audio network, port 1. |
-| 12 | **NET 2** | RJ45 (1000BASE-T) | Ethernet control and/or Dante audio network, port 2. |
-| 13 | **SLOT 1** *(typical: Dante/AES67 I/O)* | 2× SFP | Expansion card slot 1. When fitted with a Dante/AES67 I/O card: two SFP ports for optical or copper Dante network connections. |
+| Ref | Label | Connector | Function | Dot |
+|-----|-------|-----------|----------|-----|
+| 1 | **Power (primary)** | IEC C14 inlet | Mains power input. 100–240 V AC, 50/60 Hz, 0.45–0.20 A. Fuse: T1AH/250VAC. | Dark |
+| 2 | **Power (backup)** | IEC C14 inlet | Redundant mains power input (where fitted). Provides hot-swap PSU redundancy. | Dark |
+| 3 | **AES/EBU I/O 1–4** | DB25 (Tascam pinout) | AES/EBU digital audio I/O, channels 1–4 (4 stereo pairs = 8 channels). | Orange |
+| 4 | **AES/EBU I/O 5–8** | DB25 (Tascam pinout) | AES/EBU digital audio I/O, channels 5–8 (4 stereo pairs = 8 channels). | Orange |
+| 5 | **MADI IN** | BNC, 75 Ω | MADI coaxial input. AES10 compliant. | Blue |
+| 6 | **MADI OUT** | BNC, 75 Ω | MADI coaxial output. | Blue |
+| 7 | **Optical I/O** | TOSLINK (optical) | Optical MADI or ADAT I/O (card-dependent). | Cyan |
+| 8 | **WC/VBB IN** | BNC, 75 Ω | Word clock or Video Black Burst input. | Violet |
+| 9 | **WC OUT** | BNC, 75 Ω | Word clock output. | Violet |
+| 10 | **AES11 IN** | XLR (female) | AES11 digital audio reference signal input. | Green |
+| 11 | **NET 1** | RJ45 (1000BASE-T) | Ethernet control and/or Dante audio network, port 1. | Slate |
+| 12 | **NET 2** | RJ45 (1000BASE-T) | Ethernet control and/or Dante audio network, port 2. | Slate |
+| 13 | **SLOT 1** *(typical: Dante/AES67 I/O)* | 2× SFP | Expansion card slot 1. When fitted with a Dante/AES67 I/O card: two SFP ports for optical or copper Dante network connections. | Cyan |
 
 ---
 
